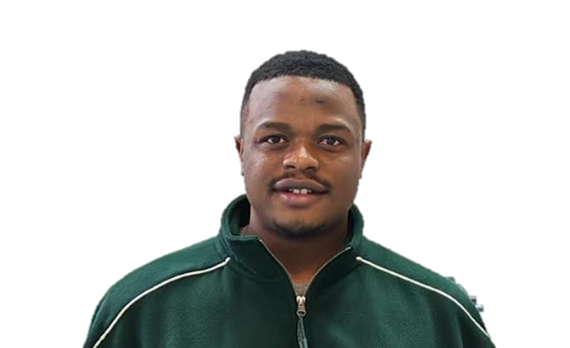
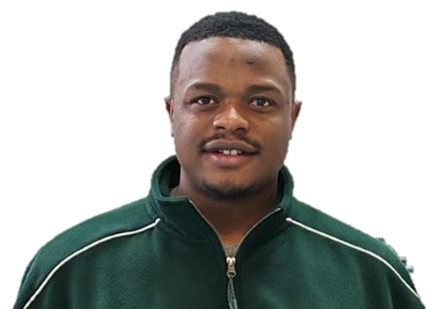
Add files via upload

Changed region(s): [[0.0296, 0.0291, 0.9772, 1.0], [0.6515, 0.932, 0.7107, 0.9612]]

diff --git a/index.html b/index.html
@@ -1,25 +1,44 @@
-<!doctype html><html lang="en"><head><meta charset="utf-8"><meta name="viewport" content="width=device-width,initial-scale=1"><meta name="description" content="Christian N. Tchana | PhD researcher in avian ecology, parasitology and wildlife health at La Rochelle University and CEBC-CNRS."><title>Christian N. Tchana | Academic Website</title><link rel="stylesheet" href="style.css"></head><body><header class="sitebar"><div class="navinner"><a class="logotype" href="#home">Christian N. Tchana</a><nav class="navlinks" aria-label="Main navigation"><a href="#home">Home</a><a href="#about">About</a><a href="#research">Research</a><a href="#projects">Projects</a><a href="#publications">Publications</a><a href="#education">Education</a><a href="#experience">Experience</a><a href="#talks">Talks</a><a href="#awards">Awards</a><a href="#contact">Contact</a></nav></div></header><div class="page"><aside class="sidebar"><div class="portrait"><img src="profile.png" alt="Portrait of Christian N. Tchana"></div><h2 class="side-name">Christian N. Tchana</h2><div class="side-role">PhD Researcher · Avian Ecologist</div><div class="side-affil">La Rochelle University<br>CEBC–CNRS · France</div><div class="socials"><a href="https://orcid.org/0009-0006-7084-1261" target="_blank" rel="noopener">ORCID ↗</a><a href="https://github.com/Christian-N-Tchana" target="_blank" rel="noopener">GitHub ↗</a><a href="#publications">Publications ↓</a></div><hr class="side-rule"><div class="side-interests"><b>Research interests</b><br>Avian ecology · Biodiversity · Parasitology · Environmental change · Wildlife health</div></aside><main><section id="home" class="welcome"><div class="kicker">Welcome to my academic website</div><h1>Christian N. Tchana</h1><p class="subhead">Avian Ecology · Host–Parasite Interactions · Wildlife Health</p><p>I am a PhD researcher at <strong>La Rochelle University</strong> and the <strong>Centre d’Études Biologiques de Chizé (CEBC–CNRS)</strong>, France. I study biodiversity and the ecological consequences of environmental change, with a particular focus on birds and their parasites.</p><div class="cta"><a class="primary" href="#research">Explore my research →</a><a class="outline" href="#publications">View publications</a></div></section>
-<section id="about"><div class="kicker">Profile</div><h2>About me</h2><p class="intro">I am a doctoral researcher at La Rochelle University and CEBC–CNRS. My work lies at the intersection of avian ecology, parasitology and environmental change. I am particularly interested in how agricultural practices and other human-driven environmental changes influence parasite communities, infection dynamics and bird populations, including implications for zoonotic risks.</p><p class="intro">My wider experience includes behavioural ecology, avian malaria, Afrotropical bird diversity, urban biodiversity and conservation research in Cameroon.</p></section>
-<section id="research"><div class="kicker">Scientific focus</div><h2>Research interests</h2><div class="grid"><article class="item"><h3>Farmland birds &amp; agricultural change</h3><p>Organic and conventional farming, pesticides, environmental gradients and ecological consequences for birds and their associated organisms.</p></article><article class="item"><h3>Host–parasite interactions</h3><p>Avian ectoparasites, intestinal parasites, blood parasites and potentially pathogenic fungi, with an interest in transmission ecology.</p></article><article class="item"><h3>Avian biodiversity &amp; conservation</h3><p>Bird assemblages in agricultural, tropical and urban landscapes, including university green spaces and protected areas in Cameroon.</p></article><article class="item"><h3>Behavioural &amp; disease ecology</h3><p>Parasite impacts on plumage coloration and condition, and plastic responses of avian malaria parasites to environmental cues.</p></article></div></section>
-<section id="projects"><div class="kicker">Ongoing and previous work</div><h2>Research Projects</h2>
-<div class="projectgrid"><article class="project"><span class="chip">PhD · France</span><h3>Farming practices, parasites and wildlife health</h3><p>Examining how organic and conventional farming, pesticide exposure and landscape context shape host–parasite interactions in farmland birds, including fungal and intestinal parasite communities.</p></article>
-<article class="project"><span class="chip">Urban ecology · Cameroon</span><h3>Bird diversity on a Central African university campus</h3><p>Field-based assessment of avian diversity in the green spaces of the University of Yaoundé I, with a broader interest in urban conservation and bird-associated parasites.</p></article>
-<article class="project"><span class="chip">Wetland ecology · Cameroon</span><h3>Lake Ossa bird and bat communities</h3><p>Surveys of avian and bat communities in Lake Ossa Wildlife Reserve, informing biodiversity baselines and research capacity in Cameroon.</p></article></div></section>
-<section id="publications"><div class="kicker">Peer-reviewed research</div><h2>Publications <span class="muted" style="font:500 16px system-ui">(5)</span></h2><p class="muted">Listed by publication year; Christian N. Tchana's name is highlighted. All titles link to the published articles via DOI.</p>
+<!doctype html>
+<html lang="en"><head><meta charset="utf-8"><meta name="viewport" content="width=device-width,initial-scale=1">
+<meta name="description" content="Christian N. Tchana — doctoral researcher in avian ecology, host–parasite interactions and environmental change at La Rochelle University and CEBC–CNRS.">
+<title>Christian N. Tchana | Research</title><link rel="stylesheet" href="style.css"></head>
+<body><header class="top"><div class="top-inner"><a class="brand" href="#about">Christian N. Tchana</a><nav aria-label="Primary navigation"><a href="#about">About</a><a href="#projects">Projects</a><a href="#publications">Publications</a><a href="#contact">Contact</a></nav></div></header>
+<div class="layout"><aside class="sidebar" aria-label="Researcher profile">
+<div class="portrait"><img src="profile.png" alt="Portrait photograph of Christian N. Tchana"></div>
+<h1>Christian N. Tchana</h1><p class="role">PhD Researcher in Population Biology and Ecology</p><p class="affiliation">La Rochelle University<br>Centre d’Études Biologiques de Chizé (CEBC–CNRS)<br>France</p>
+<div class="aside-section"><h2>Research interests</h2><div class="keywords"><span>Evolutionary Biology</span><span>Conservation Biology</span><span>Parasitology</span><span>Ecotoxicology</span><span>Host–Parasite Ecology</span></div></div>
+<div class="aside-section"><h2>Education</h2><ol class="education">
+<li><strong>2025–2028 · PhD</strong><br>Population Biology and Ecology<br><small>La Rochelle University, France</small></li>
+<li><strong>2022–2024 · MSc</strong><br>Biodiversity, Ecology and Evolution — Integrative Biology of Interactions<br><small>University of Montpellier, France</small></li>
+<li><strong>2018–2020 · MSc</strong><br>Animal Biology (Zoology)<br><small>University of Yaoundé I, Cameroon</small></li>
+<li><strong>2016–2017 · BSc</strong><br>Animal Biology<br><small>University of Yaoundé I, Cameroon</small></li></ol></div>
+<div class="profile-links"><a href="https://orcid.org/0009-0006-7084-1261" target="_blank" rel="noopener noreferrer">ORCID ↗</a><a href="https://github.com/Christian-N-Tchana" target="_blank" rel="noopener noreferrer">GitHub ↗</a></div>
+</aside><main>
+<section id="about"><div class="eyebrow">Research profile</div><h2>About me</h2>
+<p>My doctoral research investigates how agricultural practices, particularly pesticide use and organic farming, shape host–parasite interactions and zoonotic risks in farmland specialist birds. By combining field ecology, parasitology, ecotoxicology, and statistical modelling, my PhD research aims to better understand how pesticide exposure influences parasitic infections and potential zoonotic risks.</p>
+<p>I hold an MSc in Biodiversity, Ecology and Evolution, specialising in Integrative Biology of Interactions, from the University of Montpellier (France), and an MSc in Zoology from the University of Yaoundé I (Cameroon). My previous research has explored behavioural ecology, parasite responses to environmental conditions, and tropical ecology. Birds are my primary study system.</p>
+<p>More broadly, I am interested in disease ecology, conservation biology, ecotoxicology, and how global environmental change affects wildlife health and pathogen transmission dynamics.</p></section>
+<section id="projects"><div class="eyebrow">Scientific work</div><h2>Research projects</h2>
+<h3 class="group-heading">Current projects</h3>
+<article class="project"><div class="tag">Doctoral research · France</div><h4>Agricultural practices, parasitism and zoonotic risks in farmland birds</h4><p>Investigating relationships between organic and conventional farming, pesticide exposure, avian parasite communities, and wildlife health in agricultural landscapes in western France. The work includes intestinal parasites, potentially pathogenic fungi, and other host–parasite systems.</p></article>
+<article class="project"><div class="tag">Urban bird ecology · Cameroon</div><h4>Avian diversity and parasite ecology on the University of Yaoundé I campus</h4><p>Assessing bird assemblages in an urban university green space and exploring bird-associated parasites. This work contributes to understanding the conservation role of urban green spaces in Central Africa.</p></article>
+<h3 class="group-heading">Past projects</h3>
+<article class="project"><div class="tag">2024 · UMR MiVEGEC, Montpellier</div><h4>Environmental stress and transmission strategies in avian malaria</h4><p>Examined how host stress may affect gametocyte production and sex ratio in <i>Plasmodium relictum</i> (SGS1), using domestic canaries (<i>Serinus canaria</i>) as a model. Supervised by Ana Rivero, Claire Loiseau and Arnaud Berthomieu, with corticosterone-assay collaboration at CEBC.</p></article>
+<article class="project"><div class="tag">2023 · UMR CEFE, Montpellier</div><h4>Ectoparasites, condition and plumage coloration in blue tits</h4><p>Studied the influence of blood-feeding <i>Protocalliphora</i> larvae on the condition and coloration of blue tits (<i>Cyanistes caeruleus</i>) in Corsica, including possible long-term effects. Supervised by Claire Doutrelant, Claire Loiseau, Amélie Fargevieille and Lisa Sandmeyer.</p></article>
+<article class="project"><div class="tag">2019–2020 · University of Yaoundé I</div><h4>Bird and bat ecology in Lake Ossa Wildlife Reserve</h4><p>Investigated avian and bat diversity and potential niche overlap in Lake Ossa Wildlife Reserve, Cameroon. Supervised by Sévilor Kekeunou and Eric Moïse Bakwo Fils, with equipment support from IDEA WILD.</p></article>
+</section>
+<section id="publications"><div class="eyebrow">Peer-reviewed articles</div><h2>Publications <span class="count">(5)</span></h2><p class="note">Published articles, with links to their DOIs. My name is highlighted in the author lists.</p>
 <div class="cite-item"><div class="sub">2025 · Behavioral Ecology <span class="tag">First author</span></div><div class="pub-title"><a href="https://doi.org/10.1093/beheco/araf044" rel="noopener" target="_blank">Protocalliphora larvae: moderate but lasting carry-over effects on yearling and mother coloration</a></div><div>Tchana, C. N., Fargevieille, A., Sandmeyer, L., del Rey-Granado, M., Grégoire, A., Téplitsky, C., Loiseau, C., &amp; Doutrelant, C.</div><div class="meta"><i>Behavioral Ecology</i>, 36(4), araf044 · <a href="https://doi.org/10.1093/beheco/araf044">DOI: 10.1093/beheco/araf044</a></div></div>
 <div class="cite-item"><div class="sub">2025 · Biology Letters</div><div class="pub-title"><a href="https://doi.org/10.1098/rsbl.2025.0464" rel="noopener" target="_blank">Plastic responses of <i>Plasmodium relictum</i> to competent and non-competent mosquito bites</a></div><div>Chauvin, V., Berthomieu, A., Loiseau, C., <strong>Tchana, C. N.</strong>, Angelier, F., &amp; Rivero, A.</div><div class="meta"><i>Biology Letters</i>, 21(11), 20250464 · <a href="https://doi.org/10.1098/rsbl.2025.0464">DOI: 10.1098/rsbl.2025.0464</a></div></div>
 <div class="cite-item"><div class="sub">2025 · Ibis</div><div class="pub-title"><a href="https://doi.org/10.1111/ibi.13395" rel="noopener" target="_blank">Moult is associated with higher diversity of food items in the diet of Common Bulbuls (<i>Pycnonotus barbatus</i>) in Cameroon</a></div><div>Jarrett, C., Nwaogu, C. J., <strong>Tchana, C. N.</strong>, Kamkeng, M. F. M., Quiñones, A. L. S., Olguin-Villa, M. C., Helm, B., Powell, L. L., &amp; Welch, A. J.</div><div class="meta"><i>Ibis</i>, 167(3), 803–811 · <a href="https://doi.org/10.1111/ibi.13395">DOI: 10.1111/ibi.13395</a></div></div>
 <div class="cite-item"><div class="sub">2024 · Ecology and Evolution</div><div class="pub-title"><a href="https://doi.org/10.1002/ece3.70274" rel="noopener" target="_blank">Differences in phenology across three trophic levels between two Afrotropical sites separated by four degrees latitude</a></div><div>Jarrett, C., Simon, O. G., <strong>Tchana, C. N.</strong>, Pev, T. A., Meigang Kamkeng, M. F., Wandji, A. C., Manu, S. A., Tchoumbou, M. A., Helm, B., Powell, L. L., &amp; Nwaogu, C. J.</div><div class="meta"><i>Ecology and Evolution</i>, 14, e70274 · <a href="https://doi.org/10.1002/ece3.70274">DOI: 10.1002/ece3.70274</a></div></div>
-<div class="cite-item"><div class="sub">2024 · People and Nature</div><div class="pub-title"><a href="https://doi.org/10.1002/pan3.10634" rel="noopener" target="_blank">Urban wild meat and pangolin consumption across southern forested Cameroon: The limited influence of COVID-19</a></div><div>Simo, F. T., Difouo, G. F., <strong>Tchana, C. N.</strong>, Wandji, A. C., Djomnang-Nkwala, A. L., Mbadjoun Nziké, M., Kekeunou, S., Swiacká, M., &amp; Ingram, D. J.</div><div class="meta"><i>People and Nature</i> · <a href="https://doi.org/10.1002/pan3.10634">DOI: 10.1002/pan3.10634</a></div></div></section>
-<section id="education"><div class="kicker">Academic training</div><h2>Education</h2><div class="timeline"><div class="event"><div class="date">2025–2028</div><div><h3>PhD in Population Biology and Ecology</h3><p>La Rochelle University · Centre d'Études Biologiques de Chizé (CEBC–CNRS), France</p></div></div><div class="event"><div class="date">2022–2024</div><div><h3>MSc in Biodiversity, Ecology and Evolution</h3><p>Track: Integrative Biology of Interactions · University of Montpellier, France</p></div></div><div class="event"><div class="date">2018–2020</div><div><h3>MSc in Animal Biology (Zoology)</h3><p>University of Yaoundé I, Cameroon</p></div></div><div class="event"><div class="date">2016–2017</div><div><h3>BSc in Animal Biology</h3><p>University of Yaoundé I, Cameroon</p></div></div></div></section>
-<section id="experience"><div class="kicker">Research training</div><h2>Research internships</h2><div class="timeline"><div class="event"><div class="date">Jan–Jul 2024</div><div><h3>Master 2 research internship · UMR MiVEGEC, Montpellier</h3><p><strong>Supervisors:</strong> Ana Rivero, Claire Loiseau, Arnaud Berthomieu. Collaboration with Frédéric Angelier (CEBC) for corticosterone assays.</p><p>Investigated the effects of host environmental stress on gametocyte production and sex ratio in <i>Plasmodium relictum</i> (SGS1 lineage), using domestic canaries (<i>Serinus canaria</i>) as a study model.</p></div></div><div class="event"><div class="date">Mar–Sep 2023</div><div><h3>Master 1 research internship · UMR CEFE, Montpellier</h3><p><strong>Supervisors:</strong> Claire Doutrelant, Claire Loiseau, Amélie Fargevieille, Lisa Sandmeyer.</p><p>Studied the influence of blood-feeding <i>Protocalliphora</i> ectoparasites on condition and plumage coloration of blue tits (<i>Cyanistes caeruleus</i>) in Corsican populations.</p></div></div><div class="event"><div class="date">Aug 2019–Jan 2020</div><div><h3>Master 2 research internship · University of Yaoundé I</h3><p><strong>Supervisors:</strong> Sévilor Kekeunou and Eric Moïse Bakwo Fils. <strong>Support:</strong> IDEA WILD equipment grant (USD 560).</p><p>Investigated niche overlap between bats and birds in the Lake Ossa Wildlife Reserve, Cameroon.</p></div></div></div></section>
-<section id="talks"><div class="kicker">Academic activities</div><h2>Conferences &amp; Talks</h2>
-<div class="activity"><span class="year">2026</span><div><h3>Groupe Français des Pesticides (GFP) · La Rochelle, France</h3><p><b>Poster presentation.</b> <em>Rôle de l’agriculture biologique et de l’agriculture conventionnelle sur la flore fongique chez les passereaux spécialistes du milieu agricole.</em></p><p>With K. Monceau, B. Defaye, C. Gautier, C. Imbert, L. Delhaes and J. Moreau.</p></div></div>
-<div class="activity"><span class="year">2025</span><div><h3>Friday4Birds · Swiss Ornithological Institute</h3><p><b>Invited webinar.</b> <em>Nest-dwelling ectoparasites and bird plumage coloration: direct and indirect long-term effects.</em> <a href="https://www.youtube.com/@f4b_22">Webinar channel ↗</a></p></div></div>
-<div class="activity"><span class="year">2024</span><div><h3>Trends in Biodiversity and Evolution (TiBE) · Vila do Conde, Portugal</h3><p><b>Oral presentation.</b> <em>Assessing bat and bird diversity in the Lake Ossa Wildlife Reserve (Littoral, Cameroon).</em></p></div></div></section>
-<section id="awards"><div class="kicker">Recognition &amp; service</div><h2>Awards &amp; Academic Service</h2>
-<div class="award"><div class="awardicon">★</div><div><div class="year">2026</div><h3>Best Poster Award</h3><p>Groupe Français des Pesticides (GFP) Colloquium, La Rochelle, France. Awarded for research on farming systems and fungal communities associated with farmland passerines.</p></div></div>
-<div class="award"><div class="awardicon">◎</div><div><div class="year">2026</div><h3>Organising Committee Member</h3><p>GFP Colloquium hosted by La Rochelle University and CEBC–CNRS. <a href="https://apps.univ-lr.fr/cgi-bin/WebObjects/Colloque.woa/wa/colloque?code=4321">Event page ↗</a></p></div></div>
-<div class="award"><div class="awardicon">✦</div><div><div class="year">2019–2020</div><h3>IDEA WILD Equipment Grant</h3><p>USD 560 in equipment support for research on birds and bats in Lake Ossa Wildlife Reserve, Cameroon.</p></div></div></section>
-<section id="methods"><div class="kicker">Tools and approaches</div><h2>Research skills</h2><div class="grid"><div class="item"><h3>Quantitative ecology</h3><p>R, generalized linear (mixed) models, biodiversity metrics, multivariate community analyses and reproducible workflows.</p></div><div class="item"><h3>Field &amp; spatial ecology</h3><p>Mist-netting and bird monitoring, ecological sampling, QGIS, landscape metrics and mapping.</p></div></div></section>
-<section id="contact"><div class="kicker">Academic network</div><h2>Contact &amp; references</h2><p>La Rochelle University · Centre d'Études Biologiques de Chizé (CEBC–CNRS), France</p><p><a href="https://orcid.org/0009-0006-7084-1261" rel="noopener" target="_blank">ORCID: 0009-0006-7084-1261 ↗</a> · <a href="https://github.com/Christian-N-Tchana" rel="noopener" target="_blank">GitHub ↗</a></p><h3 style="margin-top:26px">Academic referees</h3><p class="muted">Names and institutional affiliations are provided for reference; contact details are not published here.</p><div class="references"><div class="ref"><strong>Claire Loiseau</strong>CPJ · University of Montpellier, France</div><div class="ref"><strong>Jérôme Moreau</strong>Professor · La Rochelle University, France</div><div class="ref"><strong>Crinan Jarrett</strong>Postdoctoral Researcher · Swiss Ornithological Institute, Switzerland</div><div class="ref"><strong>Luke Powell</strong>CIBIO, Portugal</div></div></section></main></div><footer class="sitefoot">© 2026 Christian N. Tchana · Academic website hosted on GitHub Pages</footer></body></html>
+<div class="cite-item"><div class="sub">2024 · People and Nature</div><div class="pub-title"><a href="https://doi.org/10.1002/pan3.10634" rel="noopener" target="_blank">Urban wild meat and pangolin consumption across southern forested Cameroon: The limited influence of COVID-19</a></div><div>Simo, F. T., Difouo, G. F., <strong>Tchana, C. N.</strong>, Wandji, A. C., Djomnang-Nkwala, A. L., Mbadjoun Nziké, M., Kekeunou, S., Swiacká, M., &amp; Ingram, D. J.</div><div class="meta"><i>People and Nature</i> · <a href="https://doi.org/10.1002/pan3.10634">DOI: 10.1002/pan3.10634</a></div></div>
+</section>
+<section id="contact"><div class="eyebrow">Get in touch</div><h2>Contact</h2>
+<div class="contact-list"><div><strong>Email</strong><a href="mailto:christian.tchana_ngacheu@univ-lr.fr">christian.tchana_ngacheu@univ-lr.fr</a></div><div><strong>Phone</strong><a href="tel:+33758359647">+33 7 58 35 96 47</a></div><div><strong>Affiliation</strong><span>La Rochelle University · CEBC–CNRS, France</span></div></div>
+<h3 class="ref-heading">Academic referees</h3><div class="ref-grid">
+<div><strong>Claire Loiseau</strong><span>CPJ · University of Montpellier, France</span></div>
+<div><strong>Jérôme Moreau</strong><span>Professor · La Rochelle University, France</span></div>
+<div><strong>Crinan Jarrett</strong><span>Postdoctoral Researcher · Swiss Ornithological Institute, Switzerland</span></div>
+<div><strong>Luke Powell</strong><span>CIBIO, Portugal</span></div>
+</div></section></main></div><footer>© 2026 Christian N. Tchana · Hosted on GitHub Pages</footer></body></html>

diff --git a/style.css b/style.css
@@ -1,3 +1,2 @@
-
-:root{--navy:#193953;--blue:#1768a0;--text:#283742;--muted:#667480;--line:#e7edf0;--bg:#fff;--soft:#f6f8fa}
-*{box-sizing:border-box}html{scroll-behavior:smooth;scroll-padding-top:82px}body{margin:0;color:var(--text);font:16px/1.68 -apple-system,BlinkMacSystemFont,"Segoe UI",Arial,sans-serif;background:var(--bg)}a{color:var(--blue);text-decoration:none}a:hover{text-decoration:underline}h1,h2,h3{line-height:1.25;color:#193953}h1{font-size:clamp(35px,4vw,50px);margin:.3em 0}h2{font-size:30px;font-weight:700;margin:8px 0 24px}h3{font-size:18px;margin:0 0 7px}.sitebar{position:sticky;top:0;background:#fff;box-shadow:0 1px 7px #24364712;z-index:20}.navinner{max-width:1310px;padding:12px 26px;margin:auto;display:flex;align-items:center;justify-content:space-between;gap:22px}.logotype{white-space:nowrap;font-weight:730;letter-spacing:.01em;font-size:18px;color:var(--navy)}.navlinks{display:flex;gap:18px;align-items:center;flex-wrap:wrap}.navlinks a{font-size:13px;font-weight:610;color:#415366}.navlinks a:hover{color:var(--blue)}.page{max-width:1200px;display:grid;grid-template-columns:280px minmax(0,1fr);gap:70px;padding:63px 24px 80px;margin:auto}.sidebar{position:sticky;top:105px;height:fit-content;text-align:center}.portrait{height:220px;width:220px;margin:0 auto 20px;background:#eff3f5;border-radius:50%;overflow:hidden;display:flex;align-items:flex-end;justify-content:center}.portrait img{width:100%;height:100%;object-fit:contain;object-position:center bottom}.side-name{font-size:23px;margin:2px 0 5px}.side-role{font-weight:600;font-size:14px}.side-affil{color:var(--muted);font-size:14px;margin:9px 0 19px}.socials{display:flex;justify-content:center;gap:10px;flex-wrap:wrap}.socials a{padding:6px 10px;border:1px solid #dce6eb;border-radius:5px;font-size:13px;font-weight:600}.side-rule{margin:24px 16px;border:0;border-top:1px solid var(--line)}.side-interests{text-align:left;padding:0 12px;font-size:13px;color:var(--muted)}.side-interests b{color:var(--navy)}main{min-width:0}section{padding:36px 0 47px;border-bottom:1px solid var(--line)}section:first-child{padding-top:0}section:last-child{border:0}.welcome{padding-bottom:52px}.welcome p{font-size:18px;max-width:800px}.subhead{color:#476577;font-weight:620;font-size:19px!important}.kicker{text-transform:uppercase;letter-spacing:.15em;font-weight:750;color:#2b8298;font-size:11px}.cta{display:flex;gap:11px;flex-wrap:wrap;margin-top:26px}.primary,.outline{padding:10px 16px;font-weight:700;border:1px solid var(--blue);border-radius:4px;font-size:14px}.primary{background:var(--blue);color:white}.outline{color:var(--blue)}.primary:hover{color:white}.grid{display:grid;grid-template-columns:repeat(2,minmax(0,1fr));gap:16px}.item{background:#fff;border:1px solid var(--line);border-radius:5px;padding:20px}.item p{margin:4px 0;color:var(--muted)}.timeline{display:grid}.event,.activity{display:grid;grid-template-columns:135px 1fr;gap:19px;padding:18px 0;border-bottom:1px solid var(--line)}.event:last-child,.activity:last-child{border:0}.date,.year{color:#377a99;font-weight:750;font-size:14px}.event p,.activity p{margin:5px 0}.projectgrid{display:grid;grid-template-columns:repeat(2,minmax(0,1fr));gap:16px}.project{border:1px solid var(--line);padding:22px;border-radius:5px}.project p{margin:0;color:var(--muted)}.chip{font-size:11px;color:#27718d;background:#e8f3f5;padding:4px 8px;display:inline-block;border-radius:2px;margin-bottom:13px;font-weight:700}.cite-item{padding:20px 0;border-bottom:1px solid var(--line)}.cite-item:last-child{border:0}.cite-item .sub{text-transform:uppercase;font-size:12px;letter-spacing:.05em;font-weight:700;color:#46728c}.pub-title{font-size:17px;font-weight:700;margin:5px 0}.cite-item .meta,.muted{color:var(--muted);font-size:14px}.tag{background:#dff0ea;color:#21765f;font-size:11px;padding:3px 8px;border-radius:3px;margin-left:6px}.award{display:flex;gap:19px;padding:22px 0;border-bottom:1px solid var(--line)}.award:last-child{border:0}.awardicon{width:45px;height:45px;background:#eff5f7;border-radius:50%;display:grid;place-items:center;color:#31799d;font-size:23px;flex-shrink:0}.award h3{margin:4px 0}.award p{margin:5px 0}.references{display:grid;grid-template-columns:repeat(2,minmax(0,1fr));gap:14px}.ref{background:var(--soft);padding:18px;border-radius:4px}.ref strong{display:block}.sitefoot{text-align:center;font-size:13px;color:var(--muted);padding:25px 12px;background:var(--soft)}#about .intro{font-size:17px}@media(max-width:1020px){.page{gap:34px;grid-template-columns:235px minmax(0,1fr)}.portrait{width:190px;height:190px}.navlinks{gap:12px}}@media(max-width:760px){.navinner{align-items:flex-start;flex-direction:column;gap:10px}.navlinks{gap:10px 14px}.navlinks a{font-size:12px}.page{display:block;padding:36px 20px}.sidebar{position:static;margin:0 auto 25px;max-width:390px}.side-interests,.side-rule{display:none}.portrait{width:170px;height:170px}.grid,.projectgrid,.references{grid-template-columns:1fr}.event,.activity{grid-template-columns:1fr;gap:3px}h2{font-size:27px}section{padding:30px 0 36px}}
+ :root{--ink:#253646;--navy:#183c58;--blue:#176b97;--line:#e2e9ef;--muted:#657482;--paper:#fff;--soft:#f6f9fb}
+*{box-sizing:border-box}html{scroll-behavior:smooth;scroll-padding-top:90px}body{margin:0;background:var(--paper);color:var(--ink);font:16px/1.72 -apple-system,BlinkMacSystemFont,"Segoe UI",Arial,sans-serif}a{color:var(--blue);text-decoration:none}a:hover{text-decoration:underline}h1,h2,h3,h4{line-height:1.26;color:var(--navy)}.top{position:sticky;top:0;background:#ffffffed;backdrop-filter:blur(10px);border-bottom:1px solid var(--line);z-index:10}.top-inner{max-width:1200px;margin:auto;display:flex;justify-content:space-between;align-items:center;padding:16px 25px;gap:20px}.brand{font-size:17px;color:var(--navy);font-weight:750}.top nav{display:flex;gap:25px;flex-wrap:wrap}.top nav a{font-size:14px;font-weight:600;color:#495c6b}.layout{max-width:1200px;margin:0 auto;padding:58px 25px 100px;display:grid;grid-template-columns:285px minmax(0,1fr);gap:75px}.sidebar{align-self:start}.portrait{height:238px;width:238px;background:#eaf0f3;border-radius:50%;overflow:hidden;margin:0 auto 22px;display:flex;justify-content:center;align-items:flex-end}.portrait img{width:100%;height:100%;object-fit:contain;object-position:center bottom;transform:scale(1.10);transform-origin:center bottom}.sidebar h1{text-align:center;font-size:24px;margin:0 0 8px}.role{text-align:center;font-size:14px;font-weight:650;color:var(--ink);line-height:1.5;margin:0 0 9px}.affiliation{text-align:center;font-size:13px;line-height:1.55;color:var(--muted);margin:0 0 25px}.aside-section{padding:24px 0;border-top:1px solid var(--line)}.aside-section h2{font-size:17px;margin:0 0 14px}.keywords{display:flex;flex-wrap:wrap;gap:7px}.keywords span{font-size:12px;border:1px solid #dce7ed;border-radius:4px;background:var(--soft);padding:5px 9px;color:#375a6e}.education{list-style:none;margin:0;padding:0}.education li{font-size:13px;line-height:1.48;padding:0 0 16px;margin:0 0 16px;border-bottom:1px solid #edf1f3}.education li:last-child{margin-bottom:0;border:0;padding:0}.education strong{font-size:13px;color:var(--navy)}.education small{font-size:12px;color:var(--muted)}.profile-links{border-top:1px solid var(--line);padding-top:18px;display:flex;gap:15px;font-size:13px;font-weight:700}main{min-width:0}main section{padding:37px 0 46px;border-bottom:1px solid var(--line)}main section:first-child{padding-top:0}main section:last-child{border:0}.eyebrow{text-transform:uppercase;letter-spacing:.14em;font-size:11px;font-weight:800;color:#387c95}main h2{font-size:clamp(27px,3vw,35px);margin:7px 0 22px}main p{margin:0 0 16px}.group-heading{font-size:20px;margin:30px 0 13px}.project{border-left:3px solid #dce7ef;padding:4px 0 13px 18px;margin:0 0 20px}.project h4{font-size:18px;margin:4px 0 10px}.project p{margin:0;color:#4a5a66}.tag{font-size:12px;color:#427c93;font-weight:700}.count{font-size:16px;color:var(--muted);font-weight:500}.note,.muted{font-size:14px;color:var(--muted)}.cite-item{border-bottom:1px solid var(--line);padding:18px 0}.cite-item:last-child{border:0}.cite-item .sub{text-transform:uppercase;letter-spacing:.05em;color:#42758b;font-size:12px;font-weight:750}.pub-title{font-size:17px;font-weight:750;line-height:1.45;margin:6px 0}.cite-item .meta{color:var(--muted);font-size:14px;margin-top:5px}.tag:not(.project .tag){display:inline-block}.cite-item .tag{background:#e7f3ec;color:#206c51;border-radius:3px;padding:1px 6px;margin-left:7px}.contact-list{display:grid;gap:13px;margin-bottom:42px}.contact-list>div{display:grid;grid-template-columns:90px minmax(0,1fr);gap:14px}.contact-list strong{color:var(--navy)}.contact-list a{overflow-wrap:anywhere}.ref-heading{font-size:22px;margin:10px 0 18px}.ref-grid{display:grid;grid-template-columns:repeat(2,minmax(0,1fr));gap:13px}.ref-grid>div{background:var(--soft);padding:17px;border:1px solid var(--line);border-radius:4px}.ref-grid strong{display:block}.ref-grid span{display:block;color:var(--muted);font-size:13px;margin-top:3px}footer{font-size:13px;color:var(--muted);text-align:center;background:var(--soft);padding:25px 15px}@media(max-width:900px){.layout{grid-template-columns:240px minmax(0,1fr);gap:30px}.portrait{height:210px;width:210px}}@media(max-width:690px){.top-inner{display:block}.top nav{margin-top:8px;gap:16px}.layout{display:block;padding:32px 20px 55px}.sidebar{max-width:500px;margin:0 auto 40px}.aside-section{padding:20px 0}.portrait{width:205px;height:205px}.ref-grid{grid-template-columns:1fr}main section{padding:32px 0}.contact-list>div{grid-template-columns:1fr;gap:1px}}

diff --git a/README.md b/README.md
@@ -1,5 +1,3 @@
-# Christian N. Tchana — Academic Website
+# Christian N. Tchana — Academic website
 
-Static website for GitHub Pages. Upload `index.html`, `style.css` and `profile.png` to the root of `Christian-N-Tchana.github.io`.
-
-The layout is inspired by academic one-page portfolio sites with section navigation. Edit the HTML content to update your profile.
+GitHub Pages site. Upload `index.html`, `style.css` and `profile.png` to the root of `Christian-N-Tchana.github.io`.
